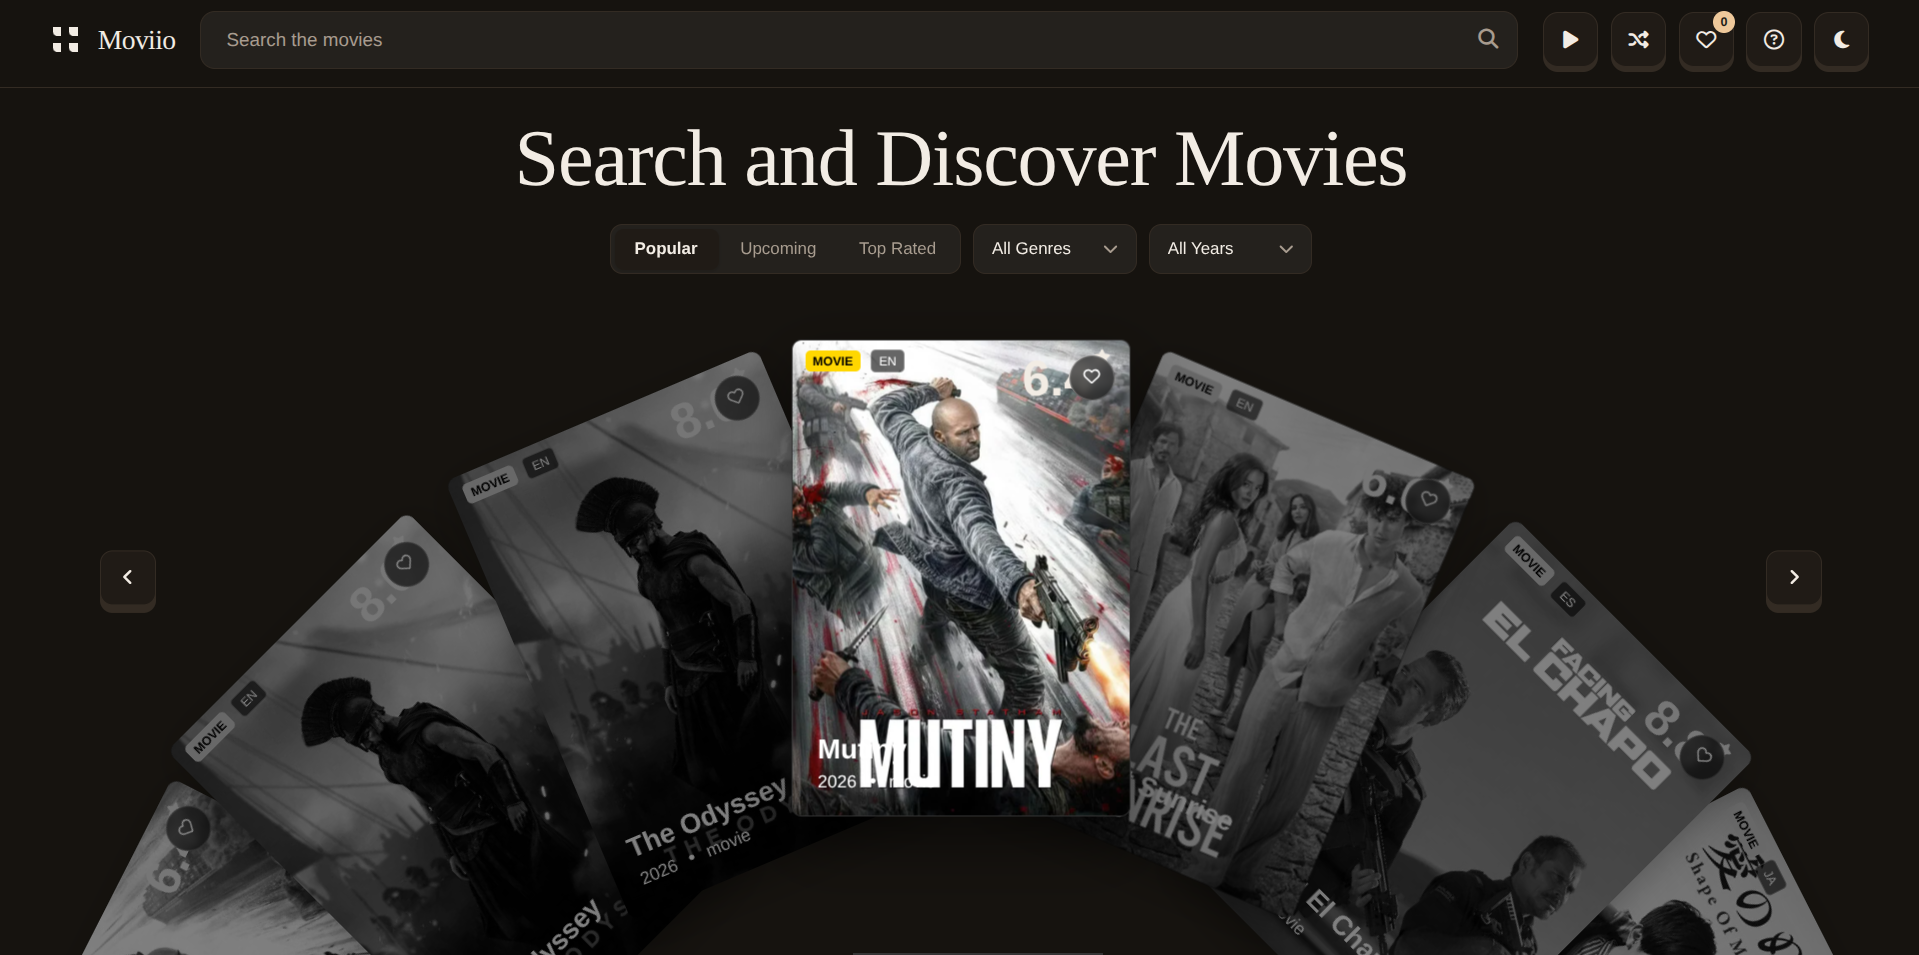
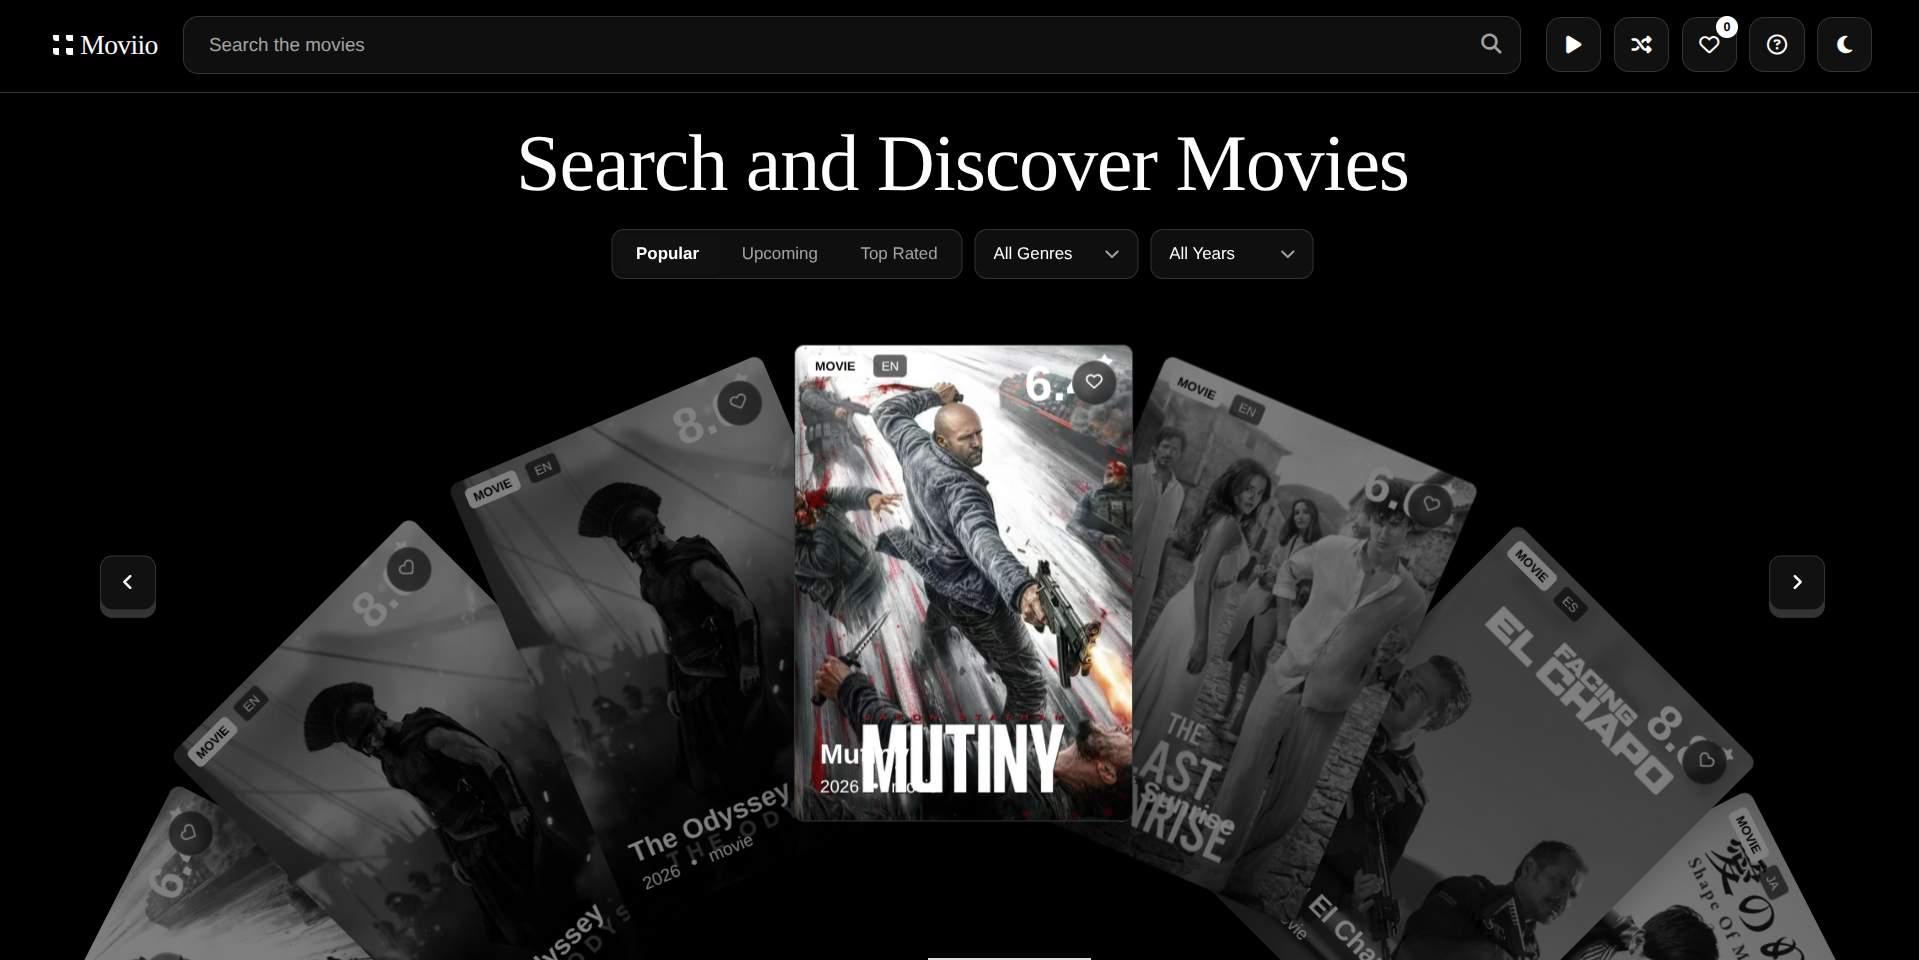
docs: update README with new monochrome theme and layout changes

diff --git a/index.html b/index.html
@@ -22,43 +22,43 @@
   <link rel="stylesheet" href="landing.css" />
   <link rel="stylesheet" href="https://cdnjs.cloudflare.com/ajax/libs/font-awesome/6.5.1/css/all.min.css"
     crossorigin="anonymous" referrerpolicy="no-referrer" />
-  <style>
-    /* Preview section – matches landing aesthetic */
+<style>
+  /* Preview section – matches landing aesthetic */
+  .l-preview {
+    margin: 40px auto 0;
+    max-width: 1100px;
+    padding: 0 20px;
+  }
+
+  .l-preview-inner {
+    position: relative;
+    overflow: hidden;
+    border-radius: 8px;
+    background: var(--l-card);
+    box-shadow: 0 12px 40px rgba(0, 0, 0, 0.2);
+  }
+
+  .l-preview-inner img {
+    display: block;
+    width: 100%;
+    height: auto;
+    /* aspect-ratio: 16 / 9; */
+    object-fit: contain;
+    object-position: top;
+    border-radius: 16px;
+  }
+
+  .l-preview-mask {
+    mask-image: linear-gradient(to bottom, black 55%, transparent 100%);
+    -webkit-mask-image: linear-gradient(to bottom, black 55%, transparent 100%);
+  }
+
+  @media (max-width: 640px) {
     .l-preview {
-      margin: 40px auto 0;
-      max-width: 1100px;
-      padding: 0 20px;
+      padding: 0 12px;
     }
-
-    .l-preview-inner {
-      position: relative;
-      overflow: hidden;
-      border-radius: 8px;
-      background: var(--l-card);
-      box-shadow: 0 12px 40px rgba(0, 0, 0, 0.2);
-    }
-
-    .l-preview-inner img {
-      display: block;
-      width: 100%;
-      height: auto;
-      aspect-ratio: 16 / 9;
-      object-fit: contain;
-      object-position: top;
-      border-radius: 16px;
-    }
-
-    .l-preview-mask {
-      mask-image: linear-gradient(to bottom, black 55%, transparent 100%);
-      -webkit-mask-image: linear-gradient(to bottom, black 55%, transparent 100%);
-    }
-
-    @media (max-width: 640px) {
-      .l-preview {
-        padding: 0 12px;
-      }
-    }
-  </style>
+  }
+</style>
   <script>
     (function () {
       try {
@@ -139,12 +139,12 @@
       <div class="l-analyzer">
         <form class="l-input-row" id="landingSearchForm">
           <div class="l-input-icon"><i class="fa-solid fa-film"></i></div>
-          <input type="search" class="l-input-field" id="landingSearchInput" placeholder="Search movies..."
+          <input type="search" class="l-input-field" id="landingSearchInput" placeholder="you can search movie from here by entering movie name..."
             autocomplete="off" />
           <button type="submit" class="l-analyze-btn">
-            <i class="fa-solid fa-play"></i>
-            <span>Search</span>
-            <i class="fa-solid fa-arrow-right" style="font-size:12px;"></i>
+            <!-- <i class="fa-solid fa-play"></i> -->
+            <span>Search Movie</span>
+            <!-- <i class="fa-solid fa-arrow-right" style="font-size:12px;"></i> -->
           </button>
         </form>
         <p class="l-analyzer-hint">

diff --git a/landing.css b/landing.css
@@ -236,6 +236,7 @@ body {
   padding: 12px 4px 6px;
   border-top: 1px solid var(--l-border);
   margin-top: 10px;
+
 }
 
 .l-nav-mobile-links a {
@@ -320,6 +321,7 @@ body {
 .l-pill-btn i {
   display: inline-flex;
   font-size: 14px;
+  color: var(--l-primary-fg);
 }
 
 @media (min-width: 640px) {
@@ -329,6 +331,7 @@ body {
 
   .l-pill-btn i {
     display: none;
+
   }
 }
 

diff --git a/README.md b/README.md
@@ -1,48 +1,59 @@
-![Moviio Dashboard](./assets/preview.png)
+<p align="center">
+  <a href="https://moviio.vercel.app/">
+    <img src="./assets/favicon.svg" alt="JS Practice Projects" width="100%" height="150">
+  </a>
+</p>
 
-<h1 align="center">Moviio — Movie Explorer</h1>
+<h1 align="center">Moviio - Movie Explorer</h1>
 
-<p align="center">A cinematic 3D carousel movie explorer powered by TMDB. Discover movies, watch trailers, and save favourites through a smooth interactive experience.</p>
+<p align="center">A cinematic <a href="https://moviio.vercel.app/">3D carousel movie explorer</a> powered by TMDB. Discover movies, watch trailers, and save favourites through a smooth interactive experience.</p>
 
 <p align="center">
-  <img src="https://img.shields.io/badge/Status-Complete-9B72FF?style=flat" alt="Status">
-  <a href="https://github.com/bilalmlkdev/moviio/blob/main/LICENSE" target="_blank">
-    <img src="https://img.shields.io/github/license/bilalmlkdev/moviio?style=flat" alt="License">
-  </a>
+  <img src="https://img.shields.io/badge/HTML5-E34F26?style=flat&logo=html5&logoColor=white" alt="HTML5" />
+  <img src="https://img.shields.io/badge/CSS3-1572B6?style=flat&logo=css3&logoColor=white" alt="CSS3" />
+  <img src="https://img.shields.io/badge/JavaScript-F7DF1E?style=flat&logo=javascript&logoColor=black" alt="JavaScript" />
   <a href="https://github.com/bilalmlkdev/moviio/stargazers" target="_blank">
     <img src="https://img.shields.io/github/stars/bilalmlkdev/moviio?style=flat" alt="GitHub stars">
   </a>
-  <img src="https://img.shields.io/badge/Deployed%20on-Vercel-9B72FF?style=flat" alt="Vercel">
+    <img src="https://img.shields.io/badge/Status-Complete-9B72FF?style=flat" alt="Status">
+  <a href="https://github.com/bilalmlkdev/moviio/blob/main/LICENSE" target="_blank">
+    <img src="https://img.shields.io/github/license/bilalmlkdev/moviio?style=flat" alt="License">
+  </a>
 </p>
 
 <p align="center">
-  <a href="https://moviio.vercel.app/"><b>Explore Moviio</b></a>
-  &nbsp;·&nbsp;
-  <a href="https://github.com/bilalmlkdev/moviio/issues/new?labels=bug&template=bug-report---.md">Report Issue</a>
-  &nbsp;·&nbsp;
-  <a href="https://github.com/bilalmlkdev/moviio/issues/new?labels=enhancement&template=feature-request---.md">Suggest Feature</a>
+<a href="https://moviio.vercel.app/" target="_blank">
+  <picture>
+    <source media="(prefers-color-scheme: dark)" srcset="https://shieldcn.dev/badge/Live%20Moviio%20Movie%20Explorer?logo=eye&logoColor=currentColor&variant=outline&mode=dark&font=geist" />
+    <img alt="Live Preview" src="https://shieldcn.dev/badge/Live%20Moviio%20Movie%20Explorer?logo=eye&logoColor=currentColor&variant=outline&mode=light&font=geist" />
+  </picture>
+</a>
 </p>
+
 
 <p align="center">
   <i>Created by <a href="https://bilalmlkdev.vercel.app" target="_blank">Bilal Malik</a></i><br>
-  <i>Follow on GitHub <a href="https://github.com/bilalmlkdev" target="_blank">bilalmlkdev</a></i>
+  <i>Follow on Github <a href="https://github.com/bilalmlkdev" target="_blank">bilalmlkdev</a></i>
 </p>
 
----
+
+[![JS Practice Projects Dashboard](https://raw.githubusercontent.com/bilalmlkdev/moviio/main/assets/dashboard.png)](https://seepreview.vercel.app/)
+
+
 
 ## About
 
-Moviio is an interactive movie discovery app split into a marketing landing page and a separate app view — a **custom 7-card 3D wheel engine** where movies rotate through a circular cinematic interface with CSS 3D transforms.
+Moviio is an interactive movie discovery app split into a marketing landing page and a separate app view - a **custom 7-card 3D wheel engine** where movies rotate through a circular cinematic interface with CSS 3D transforms.
 
 It's powered by the TMDB API through a serverless proxy (so the API key never reaches the client), ships as an installable Progressive Web App with offline caching, and supports full light/dark theming.
 
-- **Two-page structure** — `index.html` is the marketing landing page, `app.html` is the movie explorer itself
-- **Custom 3D carousel** — drag, swipe, keyboard, or auto-rotate through movies
-- **Trailer overlay** — fullscreen YouTube playback with cast, director, runtime, and genres
-- **Favourites** — heart any movie to save it locally, browse them in a dedicated popup
-- **Light/dark theme** — full theming across both pages, persisted via localStorage
-- **PWA-ready** — installable, works offline via a versioned service worker
-- **Secure by design** — TMDB key stays server-side in a Vercel serverless function
+- **Two-page structure** - `index.html` is the marketing landing page, `app.html` is the movie explorer itself
+- **Custom 3D carousel** - drag, swipe, keyboard, or auto-rotate through movies
+- **Trailer overlay** - fullscreen YouTube playback with cast, director, runtime, and genres
+- **Favourites** - heart any movie to save it locally, browse them in a dedicated popup
+- **Light/dark theme** - full theming across both pages, persisted via localStorage
+- **PWA-ready** - installable, works offline via a versioned service worker
+- **Secure by design** - TMDB key stays server-side in a Vercel serverless function
 
 ## Features
 
@@ -51,7 +62,7 @@ It's powered by the TMDB API through a serverless proxy (so the API key never re
 | 3D Movie Wheel | Custom-built carousel with layered cards and smooth 3D transitions |
 | Drag & Swipe Navigation | Mouse drag, touch gestures, or button controls |
 | Search & Filters | Search by title, filter by genre or release year, with custom dropdowns |
-| Favourites | Heart any movie to save it via LocalStorage — browse them in a popup |
+| Favourites | Heart any movie to save it via LocalStorage - browse them in a popup |
 | Trailer Overlay | Fullscreen YouTube trailers with cast, director, runtime, and share |
 | Deep Linking | Share any movie directly via `/app.html?movie_id=980431` |
 | Keyboard Shortcuts | `←` `→` navigate, `Enter`/`Space` open trailer, `Esc` close overlays |
@@ -97,7 +108,7 @@ Then run:
 vercel dev
 ```
 
-> Opening the HTML files directly (or Live Server) won't work — `/api/tmdb` requires the Vercel serverless function to proxy TMDB requests.
+> Opening the HTML files directly (or Live Server) won't work - `/api/tmdb` requires the Vercel serverless function to proxy TMDB requests.
 
 ## Usage
 
@@ -105,7 +116,7 @@ Start on the landing page and click through to the app. Navigate the 3D wheel wi
 
 ## Contributing
 
-Contributions are welcome — bug reports, feature ideas, or code improvements.
+Contributions are welcome - bug reports, feature ideas, or code improvements.
 
 ```bash
 git checkout -b feat/your-feature-name
